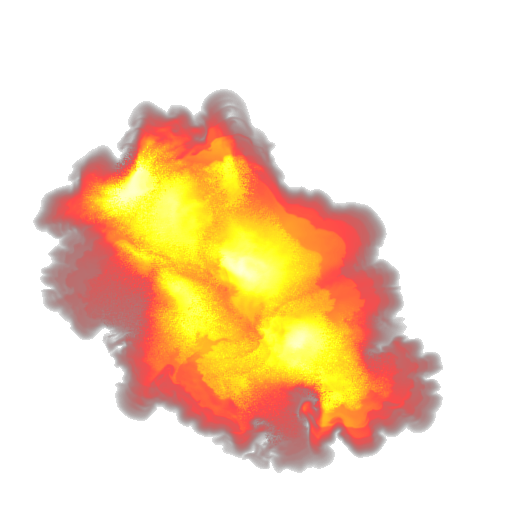
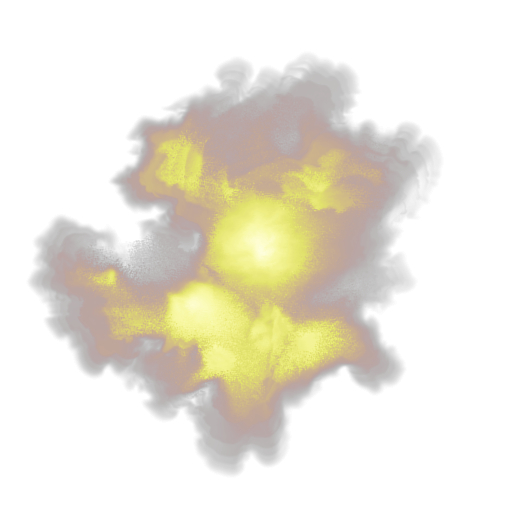
bg improvements

diff --git a/scripts/game.js b/scripts/game.js
@@ -278,11 +278,11 @@ BSWG.starfield = function(){
                     var w = ps[1].x - ps[0].x,
                         h = ps[1].y - ps[0].y;
                     var k = Math.floor(Math.random2d(x*13.5+97*l*l, y*7.431+55*l*l) * 1000000);
-                    if (~~(k/37)%5 === 0 && l>1) {
+                    if (l>1 && (~~(k/37))%[2,5][l-2] === 0) {
                         var r1 = (k%100)/100;
                         var r2 = ((k+371)%1000)/1000;
                         var nimg = nebulaImg[k % nebulaImg.length];
-                        var sz = (r1*3.0*(l-1)+0.5)*Math.min(w,h);
+                        var sz = (r1*([1.7, 6.0][l-2])+0.5)*Math.min(w,h);
                         ctx.save();
                         ctx.translate(ps[0].x, ps[0].y);
                         ctx.rotate(Math.PI*2.0*r2);
@@ -291,7 +291,7 @@ BSWG.starfield = function(){
                         ctx.drawImage(nimg, 0, 0, nimg.width, nimg.height, 0, 0, sz, sz);
                         ctx.restore();
                     }
-                    ctx.globalAlpha = 0.4 * alpha;
+                    ctx.globalAlpha = [0.4, 0.4, 0.95][l-1] * alpha;
                     ctx.drawImage(img[k % img.length], ps[0].x, ps[0].y, w, h);
                 }
             }

diff --git a/generation/gen-nebula.js b/generation/gen-nebula.js
@@ -71,6 +71,18 @@ for (var i=0; i<64; i++) {
     pal.push(clrRot(clr, [255, i*4, 255]));
 }
 
+var clampClr = function(v) {
+    return Math.min(255, Math.max(0, ~~v));
+};
+
+for (var i=0; i<pal.length; i++) {
+    var t = Math.pow(i/pal.length, 2.0);
+    var v = (pal[i][0] + pal[i][1] + pal[i][2]) / 3.0;
+    pal[i][0] = clampClr(v * (1.0-t) + pal[i][0] * t);
+    pal[i][1] = clampClr(v * (1.0-t) + pal[i][1] * t);
+    pal[i][2] = clampClr(v * (1.0-t) + pal[i][2] * t);
+}
+
 for (var i=0; i<nCircles; i++) {
     var radVel = ((Math.random() * 0.5) + 0.5) * (Math.random() < 0.5 ? -1 : 1);
     if (i === 0) {
@@ -197,7 +209,7 @@ for (var frame=0; frame<nframes; frame++) {
             dat[i]   = pal[v][0];
             dat[i+1] = pal[v][1];
             dat[i+2] = pal[v][2];
-            dat[i+3] = Math.floor(Math.pow(v/255, 0.35)*255);
+            dat[i+3] = Math.floor(Math.pow(v/255, 0.75)*255);
         }
 
     });

diff --git a/scripts/blaster.js b/scripts/blaster.js
@@ -10,6 +10,7 @@ BSWG.blasterList = new function () {
 		for (var i=0; i<this.list.length; i++) {
 
 			var B = this.list[i];
+			var ox = B.p.x, oy = B.p.y;
 			B.p.x += B.v.x * dt;
 			B.p.y += B.v.y * dt;
 			B.t -= dt;
@@ -17,7 +18,7 @@ BSWG.blasterList = new function () {
 			if (B.t <= 0.0 || BSWG.componentList.atPoint(B.p)) {
 				if (B.t > 0.0) {
 					BSWG.render.boom.add(
-						cam.wrapToScreen(BSWG.render.viewport, B.p),
+						cam.wrapToScreen(BSWG.render.viewport, {x: (ox+B.p.x)*0.5, y: (oy+B.p.y)*0.5}),
 						cam.wrapToScreenSize(BSWG.render.viewport, 1.25),
 						32,
 						0.4,
